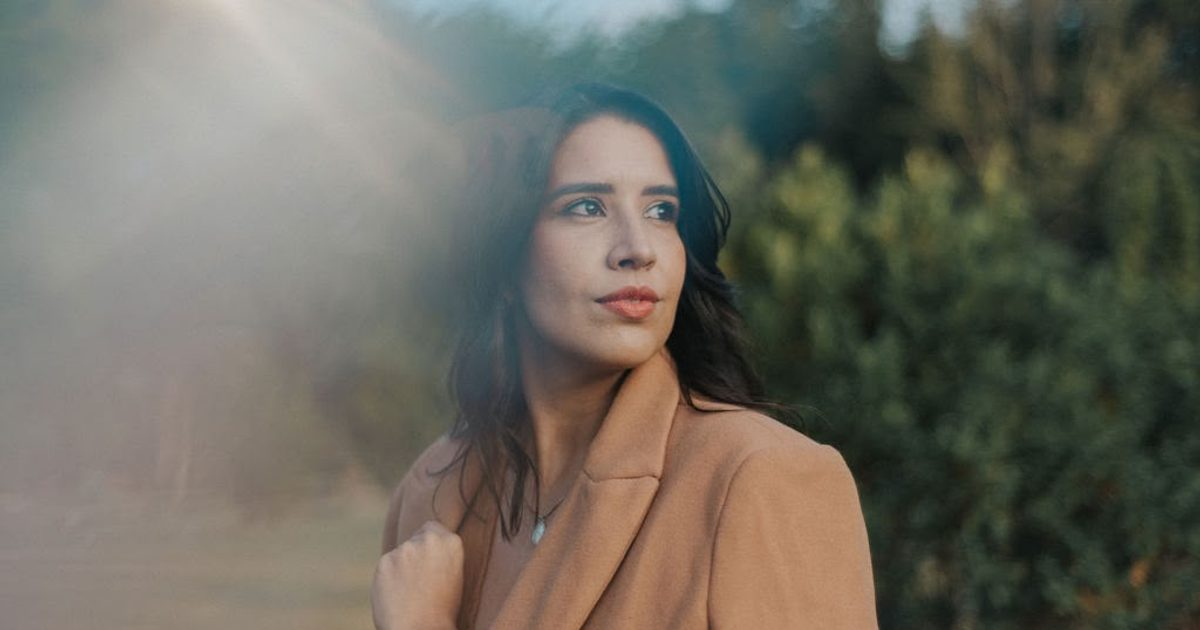
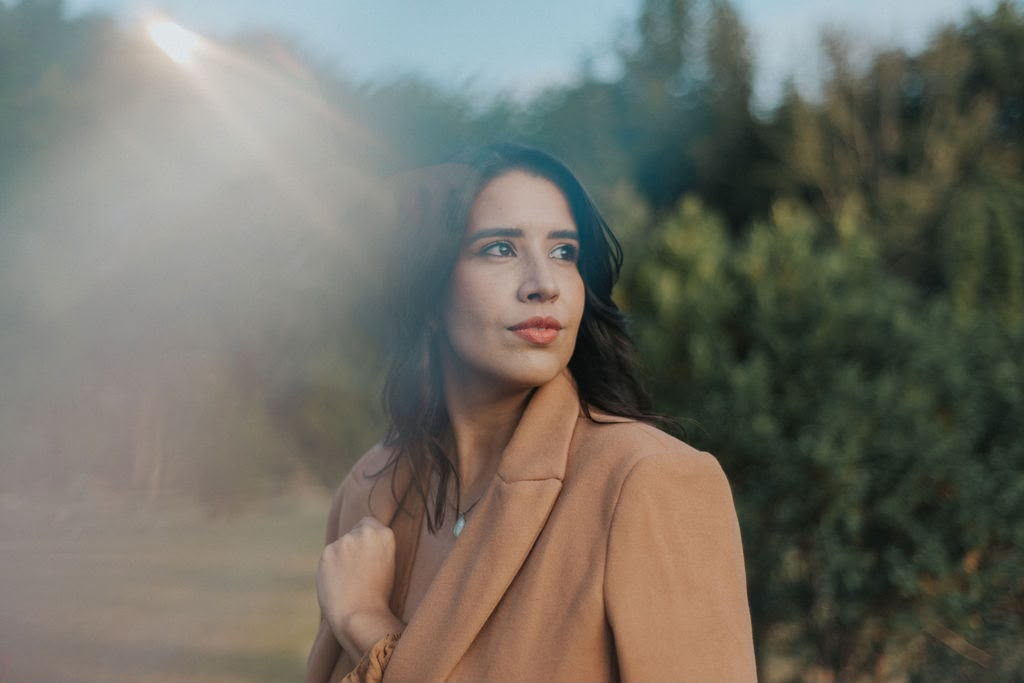
Remove assinatura do Journal e ajusta capa

diff --git a/journal.js b/journal.js
@@ -1,52 +1,3 @@
-const newsletterForm = document.querySelector("[data-journal-newsletter]");
-
-if (newsletterForm) {
-  const status = newsletterForm.querySelector("[data-journal-status]");
-  const button = newsletterForm.querySelector('button[type="submit"]');
-
-  newsletterForm.addEventListener("submit", async (event) => {
-    event.preventDefault();
-    if (!newsletterForm.reportValidity()) return;
-
-    const formData = new FormData(newsletterForm);
-    button.disabled = true;
-    button.textContent = "Confirmando...";
-    status.textContent = "";
-
-    try {
-      const payload = { name: formData.get("name"), email: formData.get("email"), source: window.location.href };
-      const response = await fetch("/.netlify/functions/subscribe-journal", {
-        method: "POST",
-        headers: { "Content-Type": "application/json" },
-        body: JSON.stringify(payload),
-      });
-      const data = await response.json();
-      if (!response.ok) {
-        const fallbackResponse = await fetch("/", {
-          method: "POST",
-          headers: { "Content-Type": "application/x-www-form-urlencoded" },
-          body: new URLSearchParams({
-            "form-name": "journal-newsletter",
-            name: payload.name,
-            email: payload.email,
-            source: payload.source,
-          }).toString(),
-        });
-        if (!fallbackResponse.ok) throw new Error(data.error || "Não foi possível concluir a inscrição.");
-      }
-      newsletterForm.reset();
-      status.textContent = "Inscrição confirmada. Em breve você receberá novas perspectivas da Revee.";
-      status.classList.add("is-success");
-    } catch (error) {
-      status.textContent = error.message || "Não foi possível concluir sua inscrição agora. Tente novamente em alguns instantes.";
-      status.classList.remove("is-success");
-    } finally {
-      button.disabled = false;
-      button.textContent = "Assinar Journal";
-    }
-  });
-}
-
 const journalFilters = [...document.querySelectorAll("[data-journal-filter]")];
 const journalSearch = document.querySelector("[data-journal-search]");
 const journalSearchSection = document.querySelector("[data-journal-results-section]");

diff --git a/journal.html b/journal.html
@@ -38,7 +38,7 @@
   </head>
   <body class="journal-body journal-home">
 
-    <a class="journal-release-ticker" href="/thejournal#newsletter" aria-label="Sua dose de conhecimento para marcas com intenção. Assine o Journal.">
+    <a class="journal-release-ticker" href="/thejournal" aria-label="Sua dose de conhecimento para marcas com intenção.">
       <span class="journal-release-ticker-track" aria-hidden="true">
         <span>Sua dose de conhecimento para marcas com intenção</span><i>•</i><span>Sua dose de conhecimento para marcas com intenção</span><i>•</i><span>Sua dose de conhecimento para marcas com intenção</span><i>•</i><span>Sua dose de conhecimento para marcas com intenção</span><i>•</i><span>Sua dose de conhecimento para marcas com intenção</span><i>•</i><span>Sua dose de conhecimento para marcas com intenção</span><i>•</i>
       </span>
@@ -50,7 +50,6 @@
       <nav class="journal-primary-nav" aria-label="Navegação do Journal">
         <a href="/thejournal#materias">Matérias</a>
         <a href="/thejournal#colunistas">Colunistas</a>
-        <a class="journal-subscribe-link" href="/thejournal#newsletter">Assine</a>
       </nav>
     </header>
     <nav class="journal-topic-nav" aria-label="Temas do Journal">
@@ -181,22 +180,11 @@
         </article></div>
       </section>
 
-      <section class="journal-newsletter" id="newsletter" aria-labelledby="newsletter-title">
-        <div><span>Newsletter</span><h2 id="newsletter-title">Leituras para quem constrói marcas com intenção.</h2><p>Uma seleção editorial sobre estratégia, imagem, negócios e cultura, enviada quando houver algo relevante a dizer.</p></div>
-        <form class="journal-newsletter-form" name="journal-newsletter" method="POST" netlify data-netlify="true" data-journal-newsletter novalidate>
-          <input type="hidden" name="form-name" value="journal-newsletter" />
-          <input type="hidden" name="source" value="The Revee Journal" />
-          <label><span>Nome</span><input type="text" name="name" autocomplete="name" required /></label>
-          <label><span>E-mail</span><input type="email" name="email" autocomplete="email" required /></label>
-          <button type="submit">Assine o Journal</button>
-          <p class="journal-form-status" data-journal-status aria-live="polite"></p>
-        </form>
-      </section>
     </main>
 
     <footer class="journal-publication-footer">
       <a class="journal-wordmark" href="/thejournal"><span>The Revee</span><em>Journal</em></a>
-      <div><a href="/thejournal#materias">Matérias</a><a href="/thejournal#colunistas">Colunistas</a><a href="/thejournal#newsletter">Newsletter</a></div>
+      <div><a href="/thejournal#materias">Matérias</a><a href="/thejournal#colunistas">Colunistas</a></div>
       <p>Perspectivas editoriais da <a href="/">Revee Brand</a>.<br />© 2026 The Revee Journal.</p>
     </footer>
     <script src="/script.js"></script>

diff --git a/daniela-escatalini.html b/daniela-escatalini.html
@@ -38,7 +38,7 @@
   </head>
   <body class="journal-body author-page">
 
-    <a class="journal-release-ticker" href="/thejournal#newsletter" aria-label="Sua dose de conhecimento para marcas com intenção. Assine o Journal.">
+    <a class="journal-release-ticker" href="/thejournal" aria-label="Sua dose de conhecimento para marcas com intenção.">
       <span class="journal-release-ticker-track" aria-hidden="true">
         <span>Sua dose de conhecimento para marcas com intenção</span><i>•</i><span>Sua dose de conhecimento para marcas com intenção</span><i>•</i><span>Sua dose de conhecimento para marcas com intenção</span><i>•</i><span>Sua dose de conhecimento para marcas com intenção</span><i>•</i><span>Sua dose de conhecimento para marcas com intenção</span><i>•</i><span>Sua dose de conhecimento para marcas com intenção</span><i>•</i>
       </span>
@@ -50,7 +50,6 @@
       <nav class="journal-primary-nav" aria-label="Navegação do Journal">
         <a href="/thejournal#materias">Matérias</a>
         <a href="/thejournal#colunistas">Colunistas</a>
-        <a class="journal-subscribe-link" href="/thejournal#newsletter">Assine</a>
       </nav>
     </header>
     <nav class="journal-topic-nav" aria-label="Temas do Journal">
@@ -77,12 +76,11 @@
         <nav aria-label="Links de Daniela Escatalini e Revee Brand"><a href="https://www.instagram.com/daniescatalini" target="_blank" rel="noreferrer"><span><small>Conteúdo diário</small>Instagram</span><span aria-hidden="true">↗</span></a><a href="https://www.linkedin.com/in/danielaescatalini/" target="_blank" rel="noreferrer"><span><small>Visão profissional</small>LinkedIn</span><span aria-hidden="true">↗</span></a><a href="https://www.tiktok.com/@daniescatalini" target="_blank" rel="noreferrer"><span><small>Vídeos e ideias</small>TikTok</span><span aria-hidden="true">↗</span></a><a href="https://reveebrand.com" target="_blank" rel="noreferrer"><span><small>Agência</small>Revee Brand</span><span aria-hidden="true">↗</span></a></nav>
       </section>
 
-      <section class="journal-newsletter author-newsletter" id="newsletter" aria-labelledby="author-newsletter-title"><div><span>Newsletter</span><h2 id="author-newsletter-title">Perspectivas de diferentes vozes.</h2><p>Receba novas matérias e conversas do The Revee Journal sobre marcas, negócios, imagem e cultura.</p></div><form class="journal-newsletter-form" name="journal-newsletter" method="POST" netlify data-netlify="true" data-journal-newsletter novalidate><input type="hidden" name="form-name" value="journal-newsletter" /><input type="hidden" name="source" value="The Revee Journal" /><label><span>Nome</span><input type="text" name="name" autocomplete="name" required /></label><label><span>E-mail</span><input type="email" name="email" autocomplete="email" required /></label><button type="submit">Assine o Journal</button><p class="journal-form-status" data-journal-status aria-live="polite"></p></form></section>
     </main>
 
     <footer class="journal-publication-footer">
       <a class="journal-wordmark" href="/thejournal"><span>The Revee</span><em>Journal</em></a>
-      <div><a href="/thejournal#materias">Matérias</a><a href="/thejournal#colunistas">Colunistas</a><a href="/thejournal#newsletter">Newsletter</a></div>
+      <div><a href="/thejournal#materias">Matérias</a><a href="/thejournal#colunistas">Colunistas</a></div>
       <p>Perspectivas editoriais da <a href="/">Revee Brand</a>.<br />© 2026 The Revee Journal.</p>
     </footer>
     <script src="/script.js"></script>

diff --git a/journal-ainda-vale-a-pena-ser-designer-em-2026.html b/journal-ainda-vale-a-pena-ser-designer-em-2026.html
@@ -38,7 +38,7 @@
   </head>
   <body class="journal-body article-body" data-article-title="Ainda vale a pena ser designer em 2026?" data-article-category="Design" data-article-author="Daniela Escatalini" data-article-summary="Daniela Escatalini reflete sobre carreira, inteligência artificial, valorização e o futuro do design após quatro anos vivendo a profissão." data-article-url="https://reveebrand.com/thejournal/ainda-vale-a-pena-ser-designer-em-2026">
 
-    <a class="journal-release-ticker" href="/thejournal#newsletter" aria-label="Sua dose de conhecimento para marcas com intenção. Assine o Journal.">
+    <a class="journal-release-ticker" href="/thejournal" aria-label="Sua dose de conhecimento para marcas com intenção.">
       <span class="journal-release-ticker-track" aria-hidden="true">
         <span>Sua dose de conhecimento para marcas com intenção</span><i>•</i><span>Sua dose de conhecimento para marcas com intenção</span><i>•</i><span>Sua dose de conhecimento para marcas com intenção</span><i>•</i><span>Sua dose de conhecimento para marcas com intenção</span><i>•</i><span>Sua dose de conhecimento para marcas com intenção</span><i>•</i><span>Sua dose de conhecimento para marcas com intenção</span><i>•</i>
       </span>
@@ -50,7 +50,6 @@
       <nav class="journal-primary-nav" aria-label="Navegação do Journal">
         <a href="/thejournal#materias">Matérias</a>
         <a href="/thejournal#colunistas">Colunistas</a>
-        <a class="journal-subscribe-link" href="/thejournal#newsletter">Assine</a>
       </nav>
     </header>
     <nav class="journal-topic-nav" aria-label="Temas do Journal">
@@ -80,13 +79,12 @@
           <div><span>Sobre a autora</span><h2 id="author-title"><a href="/daniela-escatalini">Daniela Escatalini</a></h2><p class="article-author-role">Brand Strategist &amp; Creative Director</p><p>Colunista do The Revee Journal, com perspectivas sobre marcas, imagem, negócios e cultura.</p><div class="article-author-links"><a href="https://www.instagram.com/daniescatalini" target="_blank" rel="noreferrer" aria-label="Instagram de Daniela Escatalini"><svg viewBox="0 0 24 24" aria-hidden="true"><rect x="3" y="3" width="18" height="18" rx="5"/><circle cx="12" cy="12" r="4"/><circle cx="17.5" cy="6.5" r="1"/></svg><span>Instagram</span></a><a href="https://www.linkedin.com/in/danielaescatalini/" target="_blank" rel="noreferrer" aria-label="LinkedIn de Daniela Escatalini"><svg viewBox="0 0 24 24" aria-hidden="true"><rect x="4" y="9" width="4" height="11"/><path d="M6 6h.01"/><path d="M12 20V9h4.5a3.5 3.5 0 0 1 3.5 3.5V20"/><path d="M16 20v-6.5"/></svg><span>LinkedIn</span></a></div></div>
         </section>
         <nav class="article-next"><span>Continue no Journal</span><a href="/thejournal">Explorar todas as matérias <span aria-hidden="true">↗</span></a></nav>
-        <section class="article-newsletter" id="newsletter"><span>The Revee Journal</span><h2>Continue pensando conosco.</h2><p>Receba novas perspectivas sobre marcas, negócios, imagem e cultura.</p><a href="/thejournal#newsletter">Assine o Journal</a></section>
       </article>
     </main>
 
     <footer class="journal-publication-footer">
       <a class="journal-wordmark" href="/thejournal"><span>The Revee</span><em>Journal</em></a>
-      <div><a href="/thejournal#materias">Matérias</a><a href="/thejournal#colunistas">Colunistas</a><a href="/thejournal#newsletter">Newsletter</a></div>
+      <div><a href="/thejournal#materias">Matérias</a><a href="/thejournal#colunistas">Colunistas</a></div>
       <p>Perspectivas editoriais da <a href="/">Revee Brand</a>.<br />© 2026 The Revee Journal.</p>
     </footer>
     <div class="story-modal" data-story-modal hidden><div class="story-modal-dialog"><button type="button" class="story-modal-close" data-story-close aria-label="Fechar">×</button><h2>Compartilhar nos Stories</h2><p>O card leva a chamada completa. No Instagram, adicione o endereço copiado ao adesivo de link.</p><canvas width="1080" height="1920" data-story-canvas></canvas><div class="story-modal-actions"><button type="button" data-story-native>Compartilhar no celular</button><a data-story-download download="the-revee-journal-story.png">Baixar imagem</a></div><p class="story-modal-status" data-story-status aria-live="polite"></p></div></div>

diff --git a/journal-fotografia-crescimento-profissional.html b/journal-fotografia-crescimento-profissional.html
@@ -38,7 +38,7 @@
   </head>
   <body class="journal-body article-body" data-article-title="Por que a fotografia é tão importante para o seu crescimento profissional?" data-article-category="Imagem" data-article-author="Erica Camargo" data-article-summary="Erica Camargo reflete sobre a fotografia profissional como ferramenta de posicionamento, autopercepção e crescimento para marcas pessoais e negócios." data-article-url="https://reveebrand.com/thejournal/fotografia-crescimento-profissional">
 
-    <a class="journal-release-ticker" href="/thejournal#newsletter" aria-label="Sua dose de conhecimento para marcas com intenção. Assine o Journal.">
+    <a class="journal-release-ticker" href="/thejournal" aria-label="Sua dose de conhecimento para marcas com intenção.">
       <span class="journal-release-ticker-track" aria-hidden="true">
         <span>Sua dose de conhecimento para marcas com intenção</span><i>•</i><span>Sua dose de conhecimento para marcas com intenção</span><i>•</i><span>Sua dose de conhecimento para marcas com intenção</span><i>•</i><span>Sua dose de conhecimento para marcas com intenção</span><i>•</i><span>Sua dose de conhecimento para marcas com intenção</span><i>•</i><span>Sua dose de conhecimento para marcas com intenção</span><i>•</i>
       </span>
@@ -50,7 +50,6 @@
       <nav class="journal-primary-nav" aria-label="Navegação do Journal">
         <a href="/thejournal#materias">Matérias</a>
         <a href="/thejournal#colunistas">Colunistas</a>
-        <a class="journal-subscribe-link" href="/thejournal#newsletter">Assine</a>
       </nav>
     </header>
     <nav class="journal-topic-nav" aria-label="Temas do Journal">
@@ -80,13 +79,12 @@
           <div><span>Sobre a autora</span><h2 id="author-title">Erica Camargo</h2><p class="article-author-role">Fotógrafa — Erica Camargo Fotografia</p><p>Fotógrafa especializada em retratos profissionais, posicionamento de imagem e ensaios com essência, estratégia e conexão.</p><div class="article-author-links"><a href="https://www.instagram.com/ericacamargofotografia" target="_blank" rel="noreferrer" aria-label="Instagram de Erica Camargo"><svg viewBox="0 0 24 24" aria-hidden="true"><rect x="3" y="3" width="18" height="18" rx="5"/><circle cx="12" cy="12" r="4"/><circle cx="17.5" cy="6.5" r="1"/></svg><span>Instagram</span></a><a href="mailto:[email redacted]" aria-label="E-mail de Erica Camargo"><svg viewBox="0 0 24 24" aria-hidden="true"><rect x="3" y="5" width="18" height="14" rx="2"/><path d="m4 7 8 6 8-6"/></svg><span>E-mail</span></a><a href="https://wa.me/5511968425878" target="_blank" rel="noreferrer" aria-label="WhatsApp de Erica Camargo"><svg viewBox="0 0 24 24" aria-hidden="true"><path d="M5.5 18.5 6.6 15A7.5 7.5 0 1 1 9 17.4l-3.5 1.1Z"/><path d="M9.4 8.7c.2-.4.4-.4.7-.4h.5c.2 0 .4.1.5.4l.7 1.6c.1.3 0 .5-.1.7l-.4.5c.6 1 1.4 1.8 2.5 2.3l.5-.5c.2-.2.4-.3.7-.2l1.6.7c.3.1.4.3.4.6v.5c0 .3-.1.6-.4.8-.5.4-1.2.6-1.8.5-2.9-.4-5.7-3.1-6.2-6 0-.6.1-1.2.3-1.5Z"/></svg><span>WhatsApp</span></a></div></div>
         </section>
         <nav class="article-next"><span>Continue no Journal</span><a href="/thejournal">Explorar todas as matérias <span aria-hidden="true">↗</span></a></nav>
-        <section class="article-newsletter" id="newsletter"><span>The Revee Journal</span><h2>Continue pensando conosco.</h2><p>Receba novas perspectivas sobre marcas, negócios, imagem e cultura.</p><a href="/thejournal#newsletter">Assine o Journal</a></section>
       </article>
     </main>
 
     <footer class="journal-publication-footer">
       <a class="journal-wordmark" href="/thejournal"><span>The Revee</span><em>Journal</em></a>
-      <div><a href="/thejournal#materias">Matérias</a><a href="/thejournal#colunistas">Colunistas</a><a href="/thejournal#newsletter">Newsletter</a></div>
+      <div><a href="/thejournal#materias">Matérias</a><a href="/thejournal#colunistas">Colunistas</a></div>
       <p>Perspectivas editoriais da <a href="/">Revee Brand</a>.<br />© 2026 The Revee Journal.</p>
     </footer>
     <div class="story-modal" data-story-modal hidden><div class="story-modal-dialog"><button type="button" class="story-modal-close" data-story-close aria-label="Fechar">×</button><h2>Compartilhar nos Stories</h2><p>O card leva a chamada completa. No Instagram, adicione o endereço copiado ao adesivo de link.</p><canvas width="1080" height="1920" data-story-canvas></canvas><div class="story-modal-actions"><button type="button" data-story-native>Compartilhar no celular</button><a data-story-download download="the-revee-journal-story.png">Baixar imagem</a></div><p class="story-modal-status" data-story-status aria-live="polite"></p></div></div>